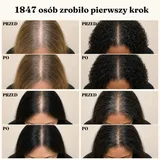
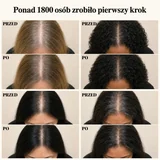
Ficha de producto, densidad coherente y fuera el 1847
CIFRA. "Ponad 1800 zweryfikowanych klientów" en vez del exacto 1847: un
número redondo dice lo mismo sin dar una cifra que invite a auditarla, y
ya nos mordió una vez. Eliminado de TODO el proyecto, incluida la imagen
hero-05.webp, que lo llevaba rotulado en el titular ("1847 osób zrobiło
pierwszy krok"). Rótulo rehecho con la misma Fraunces, mismo cuerpo y
mismo ancho (899px, clavado al original) sobre el fondo plano de la
banda; ?v= subido a pl2 en la imagen y en su miniatura.

DENSIDAD SIN CONTRADICCIÓN. La página prometía "Mniej włosów w odpływie"
—menos pelo en el desagüe, que es una afirmación sobre la CAÍDA— y tres
pantallas más abajo el disclaimer la desmentía con "Nie jest kuracją na
wypadanie włosów". Ahora todo apunta a densidad VISIBLE, que es la misma
promesa comercial y sí se sostiene en un cosmético:
 · esa frase pasa a "Włosy wyglądają na gęstsze"
 · el descriptor bajo el título dice a qué aspira el producto: "dla
   włosów, które wyglądają gęściej"
 · el disclaimer abre por lo que el producto SÍ hace y solo después
   aclara que no es un medicamento ni una cura para la alopecia. Sigue
   protegiendo igual, deja de leerse como un desmentido de lo anterior.

FICHA DE PRODUCTO. Nueva "Specyfikacja produktu" desplegable en el
buybox, donde se decide la compra: tipo, rendimiento, fórmula,
ingredientes clave, cómo pedir el INCI antes de comprar, modo de uso,
para quién, qué trae exactamente cada zestaw (el e-book con sus 43
[…]

Changed region(s): [[0.0625, 0.0312, 0.9375, 0.0938]]

diff --git a/scalp/index.html b/scalp/index.html
@@ -908,6 +908,19 @@ body:has(.sticky-cta.show) .chat-nudge{bottom:114px}
     .scroll-cue{margin:22px 28px 2px;max-width:none;padding:14px 18px}
     .sc-txt{font-size:14px}
   }
+  /* Ficha de producto: quien evalua busca datos concretos, no argumentos */
+  .spec{width:100%;border-collapse:collapse;margin:2px 0 4px}
+  .spec th,.spec td{text-align:left;vertical-align:top;padding:9px 0;border-bottom:1px solid var(--line);
+    font:400 13px/1.6 var(--sans);color:var(--ink-2)}
+  .spec th{width:37%;padding-right:14px;font-weight:600;color:var(--ink);white-space:nowrap}
+  .spec tr:last-child th,.spec tr:last-child td{border-bottom:0}
+  .spec td b{color:var(--ink);font-weight:600}
+  .spec td i{font-style:italic}
+  @media(max-width:620px){
+    .spec th,.spec td{display:block;width:auto;padding:0;border:0}
+    .spec th{padding-top:11px;white-space:normal;font-size:11.5px;letter-spacing:.02em;text-transform:uppercase;color:var(--faint,#8A8A80)}
+    .spec td{padding:2px 0 10px;border-bottom:1px solid var(--line)}
+  }
   .duo-more{display:flex;justify-content:center;margin-top:26px}
   .duo-more-btn{display:inline-flex;align-items:center;gap:11px;text-decoration:none;
     background:#fff;border:1.5px solid var(--line);border-radius:999px;padding:13px 22px;
@@ -1278,7 +1291,7 @@ body:has(.sticky-cta.show) .chat-nudge{bottom:114px}
             <!-- 6 imágenes. hero-08 (mujer canosa) y hero-03 (antes/después rubia) retiradas; hero-02 al final. -->
             <div class="hero-slide"><img src="assets/scalp-hero.webp" alt="Kalmely Korean Scalp Revival Bar — kostka i opakowanie" width="1024" height="1024" fetchpriority="high"></div>
             <div class="hero-slide"><img src="assets/hero-04.webp?v=pl1" alt="W czym ma pomagać kostka Kalmely" width="1080" height="1080" loading="lazy"></div>
-            <div class="hero-slide"><img src="assets/hero-05.webp?v=pl1" alt="Prawdziwi klienci używający kostki Kalmely" width="1080" height="1080" loading="lazy"></div>
+            <div class="hero-slide"><img src="assets/hero-05.webp?v=pl2" alt="Prawdziwi klienci używający kostki Kalmely" width="1080" height="1080" loading="lazy"></div>
             <div class="hero-slide"><img src="assets/hero-06.webp?v=pl1" alt="Co mówią klienci po stosowaniu kostki Kalmely" width="1080" height="1080" loading="lazy"></div>
             <div class="hero-slide"><img src="assets/hero-07.webp?v=pl1" alt="Składniki roślinne w kostce Kalmely" width="1080" height="1080" loading="lazy"></div>
             <div class="hero-slide"><img src="assets/hero-02.webp" alt="Osoba trzymająca kostkę Kalmely" width="1080" height="1080" loading="lazy"></div>
@@ -1289,7 +1302,7 @@ body:has(.sticky-cta.show) .chat-nudge{bottom:114px}
         <div class="hero-thumbs">
           <button type="button" class="hero-thumb is-active" aria-label="Produkt"><img src="assets/scalp-hero-thumb.webp" alt="" loading="lazy"></button>
           <button type="button" class="hero-thumb" aria-label="Korzyści"><img src="assets/hero-04-thumb.webp?v=pl1" alt="" loading="lazy"></button>
-          <button type="button" class="hero-thumb" aria-label="Klienci"><img src="assets/hero-05-thumb.webp?v=pl1" alt="" loading="lazy"></button>
+          <button type="button" class="hero-thumb" aria-label="Klienci"><img src="assets/hero-05-thumb.webp?v=pl2" alt="" loading="lazy"></button>
           <button type="button" class="hero-thumb" aria-label="Wyniki"><img src="assets/hero-06-thumb.webp?v=pl1" alt="" loading="lazy"></button>
           <button type="button" class="hero-thumb" aria-label="Składniki"><img src="assets/hero-07-thumb.webp?v=pl1" alt="" loading="lazy"></button>
           <button type="button" class="hero-thumb" aria-label="Kostka w dłoni"><img src="assets/hero-02-thumb.webp" alt="" loading="lazy"></button>
@@ -1300,7 +1313,7 @@ body:has(.sticky-cta.show) .chat-nudge{bottom:114px}
       <div class="hero-head fade-slow">
         <div class="rating"><span class="starrow"><span class="starrow-fill"></span></span> <a href="#reviews" style="color:var(--ink-2);text-decoration:none"><b style="color:var(--ink)">4,6/5</b>&nbsp; (58 opinii)</a></div>
         <h1 class="bx-h1 product">Korean Scalp Revival Bar</h1>
-        <p class="bx-h1-sub">Koreańska kostka do skóry głowy</p>
+        <p class="bx-h1-sub">Koreańska kostka do skóry głowy — dla włosów, które wyglądają gęściej</p>
         <div class="bx-badges"><div class="bx-badges-row"><span>Koreańska nauka</span><span>Bez wody w składzie</span><span>Bez siarczanów</span><span>60 dni gwarancji</span></div></div>
         <ul class="bx-promise">
           <li>Nie po to myjesz głowę codziennie, żeby zmywać wczorajszą wcierkę</li>
@@ -1370,7 +1383,21 @@ body:has(.sticky-cta.show) .chat-nudge{bottom:114px}
         </div>
 
         <div class="acc">
-          <details><summary>Jak szybko poczuję różnicę?</summary><p>Większość osób zauważa czystszą i lżejszą skórę głowy już w pierwszym tygodniu. To, jak wygląda przedziałek i gęstość włosów, zmienia się stopniowo przez 6–8 tygodni regularnego stosowania — dlatego do każdego zamówienia dajemy 60 dni na decyzję.</p></details>
+          <details class="spec-d"><summary>Specyfikacja produktu</summary>
+          <table class="spec">
+            <tr><th>Rodzaj</th><td>Szampon w kostce do skóry głowy (kosmetyk)</td></tr>
+            <tr><th>Wydajność</th><td>40–60 myć z jednej kostki — około 2 miesiące</td></tr>
+            <tr><th>Formuła</th><td>Bez wody w składzie · bez siarczanów (SLS/SLES) · wegańska</td></tr>
+            <tr><th>Kluczowe składniki</th><td>Żywotnik wschodni (<i>Platycladus orientalis</i>), żeń-szeń, He&nbsp;Shou&nbsp;Wu, rozmaryn, drzewo herbaciane</td></tr>
+            <tr><th>Pełny skład (INCI)</th><td>Wydrukowany na opakowaniu. Chcesz sprawdzić przed zakupem? Napisz na <a href="mailto:hello@kalmely.com">hello@kalmely.com</a> — odeślemy go w ciągu 24&nbsp;godzin.</td></tr>
+            <tr><th>Stosowanie</th><td>Bezpośrednio na mokrą skórę głowy, 60 sekund masażu opuszkami, spłukać. Odżywka tylko na długość.</td></tr>
+            <tr><th>Dla kogo</th><td>Kobiety i mężczyźni, każdy rodzaj włosów. Nie do stosowania na podrażnioną lub uszkodzoną skórę.</td></tr>
+            <tr><th>W zestawie</th><td><b>Każdy zestaw:</b> e-book „Koreański Protokół Skóry Głowy” — PDF, 43 strony, 15 rozdziałów, wysyłany mailem od razu po zakupie.<br><b>Zestaw 3 kostek dodatkowo:</b> serum do skóry głowy (wartość 99&nbsp;zł), wysyłane razem z paczką.</td></tr>
+            <tr><th>Dostawa</th><td>Nadanie w 24–48&nbsp;h · 10–13 dni roboczych · InPost lub kurier · darmowa przy każdym zamówieniu</td></tr>
+            <tr><th>Gwarancja</th><td>60 dni na zwrot pieniędzy, także za napoczętą kostkę. Bez odsyłania produktu.</td></tr>
+          </table>
+        </details>
+        <details><summary>Jak szybko poczuję różnicę?</summary><p>Większość osób zauważa czystszą i lżejszą skórę głowy już w pierwszym tygodniu. To, jak wygląda przedziałek i gęstość włosów, zmienia się stopniowo przez 6–8 tygodni regularnego stosowania — dlatego do każdego zamówienia dajemy 60 dni na decyzję.</p></details>
           <details><summary>Czym kostka różni się od mojego szamponu?</summary><p>Szampon w płynie spływa w kilkanaście sekund. Kostka zostaje na skórze przez minutę i rozpuszcza warstwę łoju.</p></details>
           <details><summary>A jeśli u mnie nie zadziała?</summary><p>Napisz na hello@kalmely.com w ciągu 60 dni. Zwracamy co do grosza, nawet za napoczętą kostkę.</p></details>
         </div>
@@ -1569,7 +1596,7 @@ body:has(.sticky-cta.show) .chat-nudge{bottom:114px}
 
   <section class="band" id="reviews">
     <div class="wrap">
-      <div class="sec-head fade-slow"><div class="eyebrow">Zaufali nam klientki i klienci</div><h2>+1847 zweryfikowanych klientów</h2><p>Prawdziwe zdjęcia od prawdziwych klientów — zwykłe łazienki, żadnych modeli. <b style="color:var(--ink)">Pokazujemy też te słabsze oceny</b> i to, jak je rozwiązaliśmy — żaden produkt nie jest idealny dla każdego.</p></div>
+      <div class="sec-head fade-slow"><div class="eyebrow">Zaufali nam klientki i klienci</div><h2>Ponad 1800 zweryfikowanych klientów</h2><p>Prawdziwe zdjęcia od prawdziwych klientów — zwykłe łazienki, żadnych modeli. <b style="color:var(--ink)">Pokazujemy też te słabsze oceny</b> i to, jak je rozwiązaliśmy — żaden produkt nie jest idealny dla każdego.</p></div>
       <div class="rev-top fade-slow">
         <div class="rev-score"><div class="big">4,6</div><div class="st">★★★★★</div><div class="cnt">58 zweryfikowanych opinii</div></div>
         <div class="rev-dist" id="revDist"></div>
@@ -1599,7 +1626,7 @@ body:has(.sticky-cta.show) .chat-nudge{bottom:114px}
       <div class="rev-more" id="revMore" hidden></div>
       <div class="rev-morewrap" id="revMore2Wrap" hidden style="margin-top:20px"><button type="button" class="rev-morebtn" id="revMoreBtn2">Pokaż jeszcze więcej opinii ↓</button></div>
       <div class="rev-more" id="revMore2" hidden></div>
-      <div class="sp-caps fade-slow" style="margin-top:30px"><span>„Przedziałek mniej prześwituje.”</span><span>„Skóra głowy jest lżejsza.”</span><span>„Mniej włosów w odpływie.”</span><span>„Znów czuję się sobą.”</span></div>
+      <div class="sp-caps fade-slow" style="margin-top:30px"><span>„Przedziałek mniej prześwituje.”</span><span>„Skóra głowy jest lżejsza.”</span><span>„Włosy wyglądają na gęstsze.”</span><span>„Znów czuję się sobą.”</span></div>
       <div style="text-align:center;margin-top:28px"><button type="button" class="add-to-cart" style="max-width:340px;margin-left:auto;margin-right:auto">Do koszyka — <span class="cta-price">99 zł</span></button></div>
     </div>
   </section>
@@ -1616,7 +1643,7 @@ body:has(.sticky-cta.show) .chat-nudge{bottom:114px}
         <div class="guar-item"><b>Zwrot co do grosza</b><span>Także za kostkę, której już używałeś</span></div>
       </div>
       <h3 style="font:600 22px/1.2 var(--serif);color:var(--ink);margin:0 0 6px">Wybierz zestaw i zrób pierwszy krok</h3>
-      <div class="rating" style="justify-content:center;margin-bottom:4px"><span class="stars">★★★★★</span> <span>4,6/5 · 1847 zweryfikowanych klientów</span></div>
+      <div class="rating" style="justify-content:center;margin-bottom:4px"><span class="stars">★★★★★</span> <span>4,6/5 · ponad 1800 zweryfikowanych klientów</span></div>
       <div class="packs" id="packsFinal" role="radiogroup" aria-label="Wybierz zestaw" style="max-width:690px;margin:18px auto 0">
         <button type="button" class="pack" data-sku="SCALP-1" data-price="69" role="radio" aria-checked="false">
           <span class="pack-qty">Kup 1 <span class="pack-save">1 kostka</span></span><span class="pack-unit">Zapas na ok. 2 miesiące</span><span class="pack-price">69 zł</span>
@@ -1632,7 +1659,7 @@ body:has(.sticky-cta.show) .chat-nudge{bottom:114px}
       </div>
       <button type="button" class="add-to-cart" style="max-width:340px;margin:22px auto 0">Do koszyka — <span class="cta-price">99 zł</span></button>
       <div style="margin-top:12px;font:500 13px/1.4 var(--sans);color:var(--ink-soft)">Masz pytania? <a href="mailto:hello@kalmely.com" style="text-decoration:underline">hello@kalmely.com</a></div>
-      <div class="bx-disclaimer" style="max-width:560px;margin:16px auto 0">Kalmely to kosmetyk do pielęgnacji skóry głowy. Nie służy do diagnozowania, leczenia ani zapobiegania jakimkolwiek chorobom. Nie jest kuracją na wypadanie włosów. Efekty są indywidualne.</div>
+      <div class="bx-disclaimer" style="max-width:560px;margin:16px auto 0">Kalmely to kosmetyk do pielęgnacji skóry głowy: oczyszcza ją z warstwy łoju i wspiera wygląd gęstszych, zdrowiej wyglądających włosów. Nie jest lekiem ani kuracją na łysienie — nie służy do diagnozowania, leczenia ani zapobiegania chorobom. Efekty są indywidualne i pojawiają się stopniowo.</div>
     </div>
   </section>
 
@@ -1657,7 +1684,7 @@ body:has(.sticky-cta.show) .chat-nudge{bottom:114px}
         <span style="font:500 13px/1.5 var(--sans);color:rgba(249,248,246,.78)">Potrzebujesz pomocy? Jesteśmy prawdziwymi ludźmi: <a href="mailto:hello@kalmely.com" style="text-decoration:underline;color:var(--paper)">hello@kalmely.com</a> · odpisujemy w ~24 h</span>
         <div class="foot-links"><a href="/contact">Kontakt</a><a href="/scalp-shipping.html">Dostawa</a><a href="/scalp-refund.html">Zwroty i reklamacje</a><a href="/scalp-privacy.html">Prywatność</a><a href="/scalp-terms.html">Regulamin</a></div>
       </div>
-      <div class="foot-fine">🔒 Bezpieczna płatność SSL · darmowa dostawa przy każdym zamówieniu · dostawa 10–13 dni roboczych · 60 dni na zwrot pieniędzy. &nbsp;Kalmely to kosmetyk do pielęgnacji skóry głowy. Nie służy do diagnozowania, leczenia ani zapobiegania jakimkolwiek chorobom. Nie jest kuracją na wypadanie włosów. Efekty są indywidualne. © 2026 Kalmely.</div>
+      <div class="foot-fine">🔒 Bezpieczna płatność SSL · darmowa dostawa przy każdym zamówieniu · dostawa 10–13 dni roboczych · 60 dni na zwrot pieniędzy. &nbsp;Kalmely to kosmetyk do pielęgnacji skóry głowy: oczyszcza ją z warstwy łoju i wspiera wygląd gęstszych, zdrowiej wyglądających włosów. Nie jest lekiem ani kuracją na łysienie — nie służy do diagnozowania, leczenia ani zapobiegania chorobom. Efekty są indywidualne i pojawiają się stopniowo. © 2026 Kalmely.</div>
     </div>
   </div>
 </footer>
